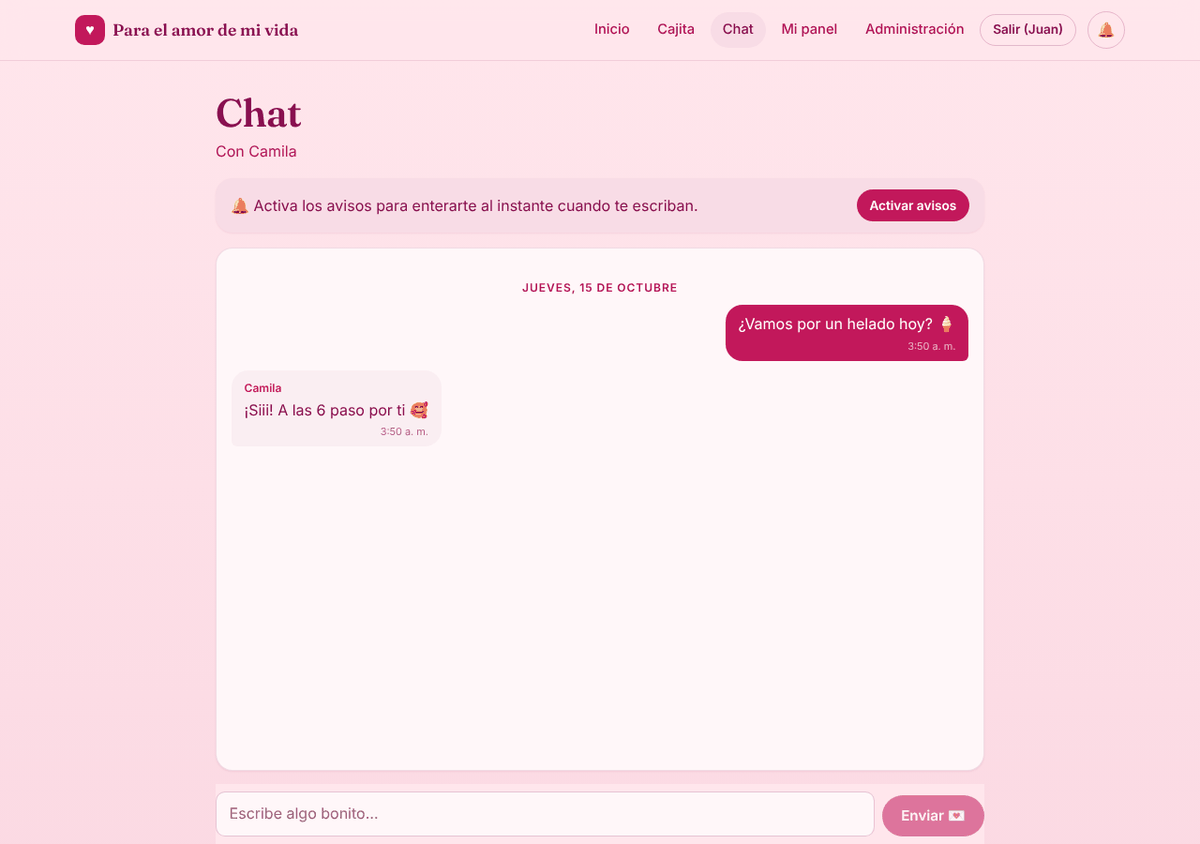
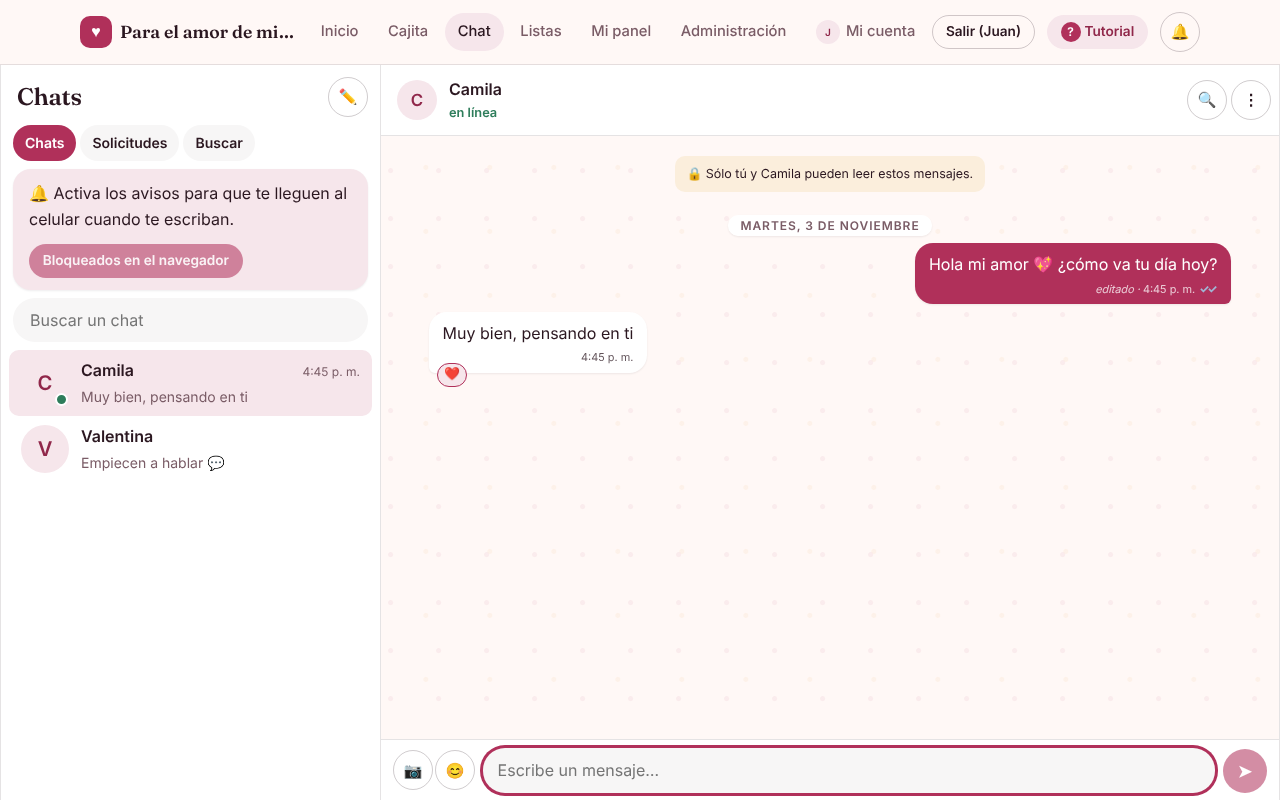
docs: diagramas y README de la app de chat
Agrega la sección «App de chat» a los diagramas (pantallas, solicitudes,
estados del contacto, permisos, opciones de un mensaje, cambios en vivo y
migración de la sala), actualiza el modelo de datos y los flujos de avisos,
y renueva las capturas del README.

diff --git a/docs/DIAGRAMAS.md b/docs/DIAGRAMAS.md
@@ -12,6 +12,7 @@ directamente al abrir este archivo. La explicación de cada pieza está en
 - [Recuperación de contraseña](#recuperación-de-contraseña)
 - [Subida de fotos](#subida-de-fotos)
 - [Notitas, chat y notificaciones](#notitas-chat-y-notificaciones)
+- [App de chat](#app-de-chat)
 - [Chat: respuestas, conexión y vistos](#chat-respuestas-conexión-y-vistos)
 - [Chat: fotos y stickers](#chat-fotos-y-stickers)
 - [Avisos en el celular](#avisos-en-el-celular)
@@ -218,7 +219,7 @@ sequenceDiagram
 
   C->>A: escribe una notita, un mensaje o publica una sorpresa
   A->>DB: insert notes / chat_messages / interruptions (RLS)
-  DB->>DB: trigger notify_new_* → insert notifications<br/>(chat: actualiza el aviso sin leer)
+  DB->>DB: trigger notify_new_* → insert notifications<br/>(chat: sólo a quienes están en ese chat,<br/>actualiza su aviso sin leer)
   DB-->>RT: cambio publicado
   RT-->>B: nueva notificación y mensaje
   B->>B: campanita, contador y toast
@@ -230,6 +231,152 @@ sequenceDiagram
     SP->>SW: Web Push (VAPID)
     SW-->>SW: muestra el aviso y abre el enlace al tocarlo
   end
+```
+
+## App de chat
+
+Pantallas de `/chat`. En el computador se ven la bandeja y la conversación
+lado a lado; en el celular, una a la vez (y dentro de un chat se esconde la
+cabecera del sitio).
+
+```mermaid
+flowchart LR
+  subgraph Bandeja["Columna izquierda"]
+    L["/chat<br/>Chats: fijados, no leídos,<br/>«escribiendo…», archivados"]
+    R["/chat/solicitudes<br/>Recibidas · Enviadas · Bloqueados"]
+    P["/chat/personas<br/>Buscar por nombre"]
+  end
+  subgraph Conversacion["Columna derecha"]
+    V["/chat/:id<br/>Conversación"]
+    E["Sin chat elegido:<br/>«Tus mensajes»"]
+  end
+  L -- "toca un chat" --> V
+  P -- "Solicitar" --> R
+  P -- "Escribir (contacto)" --> V
+  R -- "Aceptar" --> V
+  N["Aviso «quiere chatear contigo»"] --> R
+  M["Aviso «te escribió» / «aceptó»"] --> V
+```
+
+### Solicitudes de contacto
+
+Para chatear hay que aceptarse. Todo pasa por funciones de la base que usan
+la sesión (`auth.uid()`); nadie crea contactos ni conversaciones a mano.
+
+```mermaid
+sequenceDiagram
+  actor V as Valentina
+  participant A as SPA de Valentina
+  participant DB as Postgres
+  participant RT as Realtime
+  participant B as SPA de Juan
+  actor J as Juan
+
+  V->>A: Buscar «Juan»
+  A->>DB: chat_search_users('Juan')
+  DB-->>A: Juan · relation = none
+  V->>A: Solicitar + «¡Hola!»
+  A->>DB: chat_request_contact(juan, '¡Hola!')
+  DB->>DB: ¿chat.use? ¿bloqueos? límite 20/h<br/>insert chat_contacts (pending)
+  DB->>DB: trigger → aviso a Juan<br/>«Valentina quiere chatear contigo 👋»
+  DB-->>RT: chat_contacts + notifications
+  RT-->>B: pestaña Solicitudes (1)
+  J->>B: Aceptar
+  B->>DB: chat_respond_contact(id, true)
+  DB->>DB: chat_ensure_direct → chat_conversations<br/>+ chat_participants (los dos)
+  DB->>DB: status = accepted → aviso a Valentina<br/>«Juan aceptó tu solicitud 🎉» con /chat/:id
+  DB-->>B: id del chat
+  B-->>J: abre la conversación
+  RT-->>A: el chat aparece en su bandeja
+```
+
+```mermaid
+stateDiagram-v2
+  [*] --> SinRelacion
+  SinRelacion --> Pendiente: chat_request_contact
+  Pendiente --> Contactos: la otra persona acepta<br/>(o también pide)
+  Pendiente --> SinRelacion: rechaza o se cancela
+  Contactos --> SinRelacion: quitar contacto<br/>(el historial se queda)
+  SinRelacion --> Bloqueado: bloquear
+  Pendiente --> Bloqueado: bloquear
+  Contactos --> Bloqueado: bloquear
+  Bloqueado --> SinRelacion: desbloquear
+  note right of Contactos: sólo aquí se puede escribir
+  note right of Bloqueado: no aparece en la búsqueda<br/>ni puede pedir ni escribir
+```
+
+### Quién lee y quién escribe
+
+```mermaid
+flowchart TD
+  Q["Leer un mensaje (RLS de chat_messages)"] --> P1{"¿Soy parte de<br/>esa conversación?"}
+  P1 -- "no" --> NO1["No lo ve<br/>(ni su foto ni sus reacciones)"]
+  P1 -- "sí" --> P2{"¿Es posterior a<br/>«vaciar chat»?"}
+  P2 -- "no" --> NO1
+  P2 -- "sí" --> P3{"¿Lo borré para mí?"}
+  P3 -- "sí" --> NO1
+  P3 -- "no" --> SI1["Lo ve"]
+
+  W["Escribir, reaccionar, editar<br/>(chat_can_send)"] --> G{"¿Grupo?"}
+  G -- "sí" --> SI2["Puede si es parte"]
+  G -- "no, directo" --> C1{"¿Contactos aceptados,<br/>sin bloqueos y la otra<br/>cuenta activa?"}
+  C1 -- "sí" --> SI2
+  C1 -- "no" --> NO2["La app muestra<br/>«Ya no son contactos» / «Bloqueaste a…»"]
+```
+
+### Opciones de un mensaje
+
+```mermaid
+flowchart LR
+  M["Mensaje<br/>(⌄, clic derecho o mantener pulsado)"] --> RE["Reaccionar ❤ 😂 😮 …<br/>una por persona"]
+  M --> RS["Responder citando"]
+  M --> CP["Copiar"]
+  M --> ED{"¿Mío, no sticker y<br/>de hace < 15 min?"}
+  ED -- "sí" --> EDT["Editar → chat_edit_message<br/>queda «editado»"]
+  M --> IN["Información: enviado, editado<br/>y quién lo vio"]
+  M --> DM["Eliminar para mí<br/>insert chat_hidden_messages"]
+  M --> DA{"¿Mío?"}
+  DA -- "sí" --> DAL["Eliminar para todos → chat_delete_message<br/>«Se eliminó este mensaje»<br/>y se borra la foto de Storage"]
+```
+
+### Cambios en vivo
+
+```mermaid
+sequenceDiagram
+  participant A as SPA de Juan
+  participant DB as Postgres
+  participant RT as Realtime
+  participant B as SPA de Camila
+
+  B->>DB: chat_typing(chat) cada 2,5 s mientras teclea
+  DB-->>RT: chat_participants.typing_at
+  RT-->>A: «escribiendo…» en la cabecera y la bandeja
+  B->>DB: insert chat_messages
+  DB->>DB: chat_after_message: last_message_at,<br/>apaga typing_at · aviso a Juan si no silenció
+  RT-->>A: mensaje nuevo (o ↓ con contador si está leyendo arriba)
+  A->>DB: chat_mark_read(chat)
+  DB->>DB: last_read_at + marca leídos los avisos de ese chat
+  RT-->>B: ✓✓ visto
+  A->>DB: upsert chat_reactions ❤
+  RT-->>B: reacción bajo la burbuja
+  B->>DB: chat_edit_message / chat_delete_message
+  RT-->>A: la burbuja se actualiza
+```
+
+### La sala de antes
+
+La migración `…1103000100_chat_app` convierte el chat único que existía en
+una conversación, sin perder nada:
+
+```mermaid
+flowchart TD
+  S{"¿Había mensajes?"} -- "no" --> F["Nada que mover"]
+  S -- "sí" --> P["Personas: quienes escribieron<br/>o abrieron el chat"]
+  P --> D{"¿Son dos?"}
+  D -- "sí (Juan y Camila)" --> DI["Chat directo de los dos"]
+  D -- "no" --> GR["Grupo «Nuestro chat»"]
+  DI & GR --> C["Quedan como contactos entre sí<br/>y conservan hasta dónde leyeron"]
+  C --> M["Todos los mensajes pasan<br/>a esa conversación"]
 ```
 
 ## Chat: respuestas, conexión y vistos
@@ -246,17 +393,17 @@ sequenceDiagram
   loop cada 30 s con la app a la vista
     B->>DB: chat_presence(false)
     DB-->>RT: chat_reads.last_seen_at
-    RT-->>A: «Camila · en línea»
+    RT-->>A: «Camila · en línea»<br/>(sólo quien comparte un chat con ella)
   end
   J->>A: escribe y envía
-  A->>DB: insert chat_messages
+  A->>DB: insert chat_messages(conversation_id, body)
   A-->>J: ✓✓ entregado (Camila se conectó después)
-  C->>B: abre el chat
-  B->>DB: chat_presence(true)
-  DB-->>RT: chat_reads.last_read_at
+  C->>B: abre ese chat
+  B->>DB: chat_mark_read(chat)
+  DB-->>RT: chat_participants.last_read_at
   RT-->>A: ✓✓ visto
   C->>B: desliza el mensaje o toca ↩
-  B->>DB: insert chat_messages(body, reply_to)
+  B->>DB: insert chat_messages(body, reply_to)<br/>(la cita tiene que ser del mismo chat)
   RT-->>A: respuesta con la cita
   Note over A: Si Camila cierra la app, sin latidos<br/>pasa a «últ. vez hace…»
 ```
@@ -265,10 +412,15 @@ sequenceDiagram
 stateDiagram-v2
   [*] --> Enviando: enviar
   Enviando --> NoEnviado: error
+  NoEnviado --> Enviando: Reintentar
   Enviando --> Enviado: guardado
   Enviado --> Entregado: la otra persona se conecta
-  Entregado --> Visto: abre el chat
-  Enviado --> Visto: abre el chat
+  Entregado --> Visto: abre ese chat
+  Enviado --> Visto: abre ese chat
+  Enviado --> Editado: editar (15 min)
+  Editado --> Visto
+  Enviado --> Eliminado: eliminar para todos
+  Visto --> Eliminado: eliminar para todos
 ```
 
 ## Chat: fotos y stickers
@@ -358,8 +510,11 @@ flowchart LR
   L["Algo nuevo en una lista"] --> QL{"¿Hay un aviso de esa lista<br/>sin leer?"}
   QL -- "no" --> INS
   QL -- "sí" --> UPD
-  C["Mensaje de chat"] --> Q{"¿Hay un aviso de chat<br/>sin leer?"}
+  C["Mensaje de chat"] --> MU{"¿Esa persona silenció<br/>el chat o bloqueó a quien escribe?"}
+  MU -- "sí" --> NADA["Sin aviso"]
+  MU -- "no" --> Q{"¿Hay un aviso sin leer<br/>de ese mismo chat?"}
   Q -- "no" --> INS
+  CR["Solicitud de contacto<br/>o solicitud aceptada"] --> INS
   Q -- "sí" --> UPD["update del aviso<br/>con el último mensaje"]
   INS & UPD --> T["trigger notifications_push"]
   T --> V{"¿Vault tiene la URL<br/>y el secreto?"}
@@ -711,8 +866,15 @@ erDiagram
   AUTH_USERS ||--o| INVITATIONS : "usa"
   AUTH_USERS ||--o{ NOTES : "envía / recibe"
   AUTH_USERS ||--o{ CHAT_MESSAGES : "escribe"
-  AUTH_USERS ||--o| CHAT_READS : "conexión y vistos"
+  AUTH_USERS ||--o| CHAT_READS : "última conexión"
   CHAT_MESSAGES |o--o{ CHAT_MESSAGES : "responde a"
+  AUTH_USERS ||--o{ CHAT_CONTACTS : "pide / acepta"
+  AUTH_USERS ||--o{ CHAT_BLOCKS : "bloquea"
+  CHAT_CONVERSATIONS ||--|{ CHAT_PARTICIPANTS : "tiene"
+  AUTH_USERS ||--o{ CHAT_PARTICIPANTS : "está en"
+  CHAT_CONVERSATIONS ||--o{ CHAT_MESSAGES : "contiene"
+  CHAT_MESSAGES ||--o{ CHAT_REACTIONS : "reacciones"
+  CHAT_MESSAGES ||--o{ CHAT_HIDDEN_MESSAGES : "borrado para"
   AUTH_USERS ||--o{ NOTIFICATIONS : "recibe"
   AUTH_USERS ||--o{ PUSH_SUBSCRIPTIONS : "dispositivos"
   AUTH_USERS ||--o{ INTERRUPTION_VIEWS : "vio"
@@ -801,8 +963,38 @@ erDiagram
     note_kind kind
     timestamptz read_at
   }
+  CHAT_CONTACTS {
+    uuid id PK
+    uuid requester_id FK
+    uuid addressee_id FK
+    text status "pending, accepted"
+    text message "mensajito opcional"
+    timestamptz responded_at
+  }
+  CHAT_BLOCKS {
+    uuid blocker_id PK
+    uuid blocked_id PK
+  }
+  CHAT_CONVERSATIONS {
+    uuid id PK
+    text kind "direct, group"
+    text title "sólo grupos"
+    text direct_key UK "uuid menor:uuid mayor"
+    timestamptz last_message_at
+  }
+  CHAT_PARTICIPANTS {
+    uuid conversation_id PK
+    uuid user_id PK
+    timestamptz last_read_at "vistos"
+    timestamptz typing_at "escribiendo…"
+    timestamptz pinned_at
+    timestamptz archived_at
+    boolean muted
+    timestamptz cleared_at "vaciar chat"
+  }
   CHAT_MESSAGES {
     uuid id PK
+    uuid conversation_id FK
     uuid sender_id FK
     chat_kind kind "text, image, sticker"
     text body
@@ -810,11 +1002,22 @@ erDiagram
     text image_path "chat-media/<user_id>/..."
     text thumb_path
     text sticker "id del catálogo"
+    timestamptz edited_at
+    timestamptz deleted_at "eliminado para todos"
+  }
+  CHAT_REACTIONS {
+    uuid message_id PK
+    uuid user_id PK
+    text emoji "lista fija"
+  }
+  CHAT_HIDDEN_MESSAGES {
+    uuid user_id PK
+    uuid message_id PK
   }
   CHAT_READS {
     uuid user_id PK
     timestamptz last_seen_at "última conexión"
-    timestamptz last_read_at "hasta dónde leyó"
+    timestamptz last_read_at "de la sala antigua"
   }
   NOTIFICATIONS {
     uuid id PK

diff --git a/README.md b/README.md
@@ -4,7 +4,7 @@
 
 # Para el amor de mi vida
 
-**Una aplicación web privada para una pareja: recuerdos, fechas, chat en tiempo real y listas compartidas, con su propio panel de administración.**
+**Una aplicación web privada para una pareja: recuerdos, fechas, una app de chat con solicitudes de contacto y listas compartidas, con su propio panel de administración.**
 
 [![CI](https://github.com/Juan-Carlos-Estevez-Vargas/Camila-Sanchez/actions/workflows/ci.yml/badge.svg?branch=master)](https://github.com/Juan-Carlos-Estevez-Vargas/Camila-Sanchez/actions/workflows/ci.yml)
 [![Deploy](https://github.com/Juan-Carlos-Estevez-Vargas/Camila-Sanchez/actions/workflows/deploy.yml/badge.svg?branch=master)](https://github.com/Juan-Carlos-Estevez-Vargas/Camila-Sanchez/actions/workflows/deploy.yml)
@@ -49,7 +49,8 @@
 medida para Camila. La página principal reúne la historia de la pareja:
 tiempo juntos, cuentas regresivas a fechas especiales, hitos, una galería de
 fotos por año y mes, una carta y sorpresas. Detrás hay un producto completo:
-cuentas con roles y permisos, chat en tiempo real, listas de tareas
+cuentas con roles y permisos, una app de chat (buscar personas, solicitudes,
+chats privados con reacciones, edición y vistos), listas de tareas
 compartidas, avisos en la pantalla del celular y un panel para editar todo sin
 tocar código.
 
@@ -64,14 +65,16 @@ Funciona en dos modos:
 
 ## Capturas
 
-| Chat en tiempo real | Listas compartidas |
+| App de chat | Listas compartidas |
 | --- | --- |
-| <img src="docs/capturas/chat.png" alt="Chat con mensajes de Juan y Camila" width="420"> | <img src="docs/capturas/listas.png" alt="Lista «Viaje a la playa» con tareas, subtareas y barra de progreso" width="420"> |
+| <img src="docs/capturas/chat.png" alt="App de chat: bandeja a la izquierda y la conversación con Camila, con un mensaje editado y una reacción" width="420"> | <img src="docs/capturas/listas.png" alt="Lista «Viaje a la playa» con tareas, subtareas y barra de progreso" width="420"> |
 | **Paletas de colores por persona** | **Roles y permisos** |
 | <img src="docs/capturas/colores.png" alt="Selector de paletas con vista previa en vivo" width="420"> | <img src="docs/capturas/permisos.png" alt="Matriz de permisos por rol en el panel de administración" width="420"> |
+| **Solicitudes de contacto** | **La bandeja en el celular** |
+| <img src="docs/capturas/chat-solicitudes.png" alt="Pestaña Solicitudes con una solicitud recibida para aceptar o rechazar" width="420"> | <img src="docs/capturas/movil-bandeja.png" alt="Bandeja de chats en un celular" width="240"> |
 
 <p align="center">
-  <img src="docs/capturas/movil-chat.png" alt="Chat en un celular" width="240"><br>
+  <img src="docs/capturas/movil-chat.png" alt="Conversación a pantalla completa en un celular" width="240"><br>
   <sub>Diseño adaptable: la misma app en el celular, instalable desde el navegador.</sub>
 </p>
 
@@ -236,7 +239,7 @@ Netlify) está paso a paso en [docs/DESPLIEGUE.md](docs/DESPLIEGUE.md).
 | --- | --- |
 | [Manual de usuario](docs/MANUAL_DE_USUARIO.md) | Quien usa la app: visitantes, Camila y Juan |
 | [Manual de arquitectura](docs/ARQUITECTURA.md) | Quien mantiene o extiende el código |
-| [Diagramas](docs/DIAGRAMAS.md) | Flujos, secuencias, despliegue, modelo de datos y permisos (Mermaid) |
+| [Diagramas](docs/DIAGRAMAS.md) | Flujos, secuencias, despliegue, modelo de datos, permisos y la app de chat (Mermaid) |
 | [Despliegue y operación](docs/DESPLIEGUE.md) | Quien pone la app en producción o la administra |
 | [Seguridad OWASP](docs/SEGURIDAD_OWASP.md) | Cómo se cubre cada riesgo del OWASP Top 10 y del API Security Top 10 |
 | [Accesibilidad y SEO](docs/ACCESIBILIDAD.md) | Cómo se cumple WCAG 2.2 AA y qué se hace para los buscadores |
